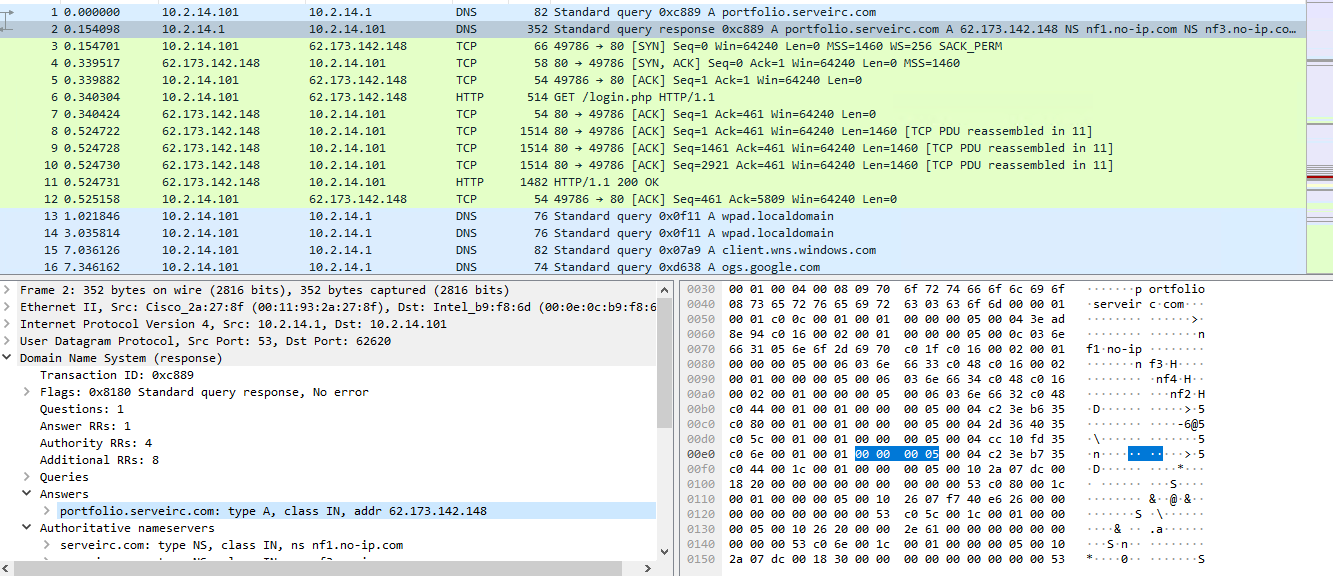
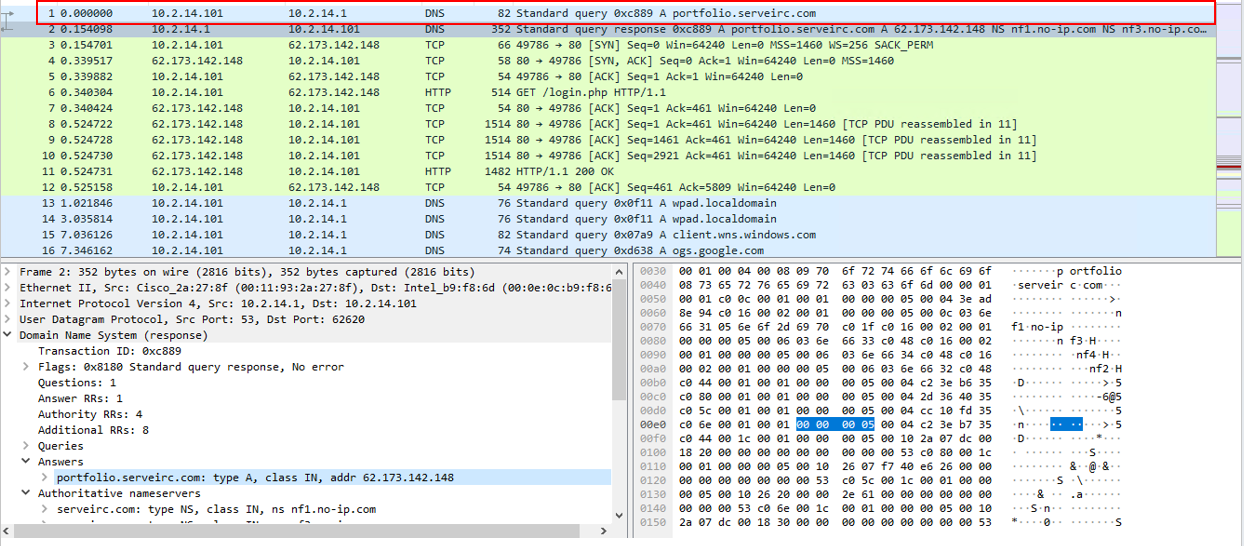
DanaBot

Changed region(s): [[0.0, 0.0, 1.0, 1.0], [0.8859, 0.9341, 0.9164, 0.9652]]

diff --git a/SOC Analyst Tier 1/Level 2/6. DanaBot/ReadMe.md b/SOC Analyst Tier 1/Level 2/6. DanaBot/ReadMe.md
@@ -38,7 +38,13 @@ Which IP address was used by the attacker during the initial access?
 ### 분석
 아예 감을 못 잡겠어서 힌트를 우선 힌트를 보면서 문제 풀이를 시작했다. 
 
+첫 번째 패킷을 분석해보면 클라이언트가 DNS 서버에게 portfolio.serveirc.com 의 ip 주소를 요청하고 있다.
+
 ![DanaBot_Q1_1.png](./IMG/DanaBot_Q1_1.png)
+
+요청을 받은 서버는 62.173.142.148 주소를 응답한다.
+
+![DanaBot_Q1_2.png](./IMG/DanaBot_Q1_2.png)
 
 # 마무리
 이번 문제는 아예 접근을 못한 채로 힌트를 보며 문제 풀이 진행했다.
